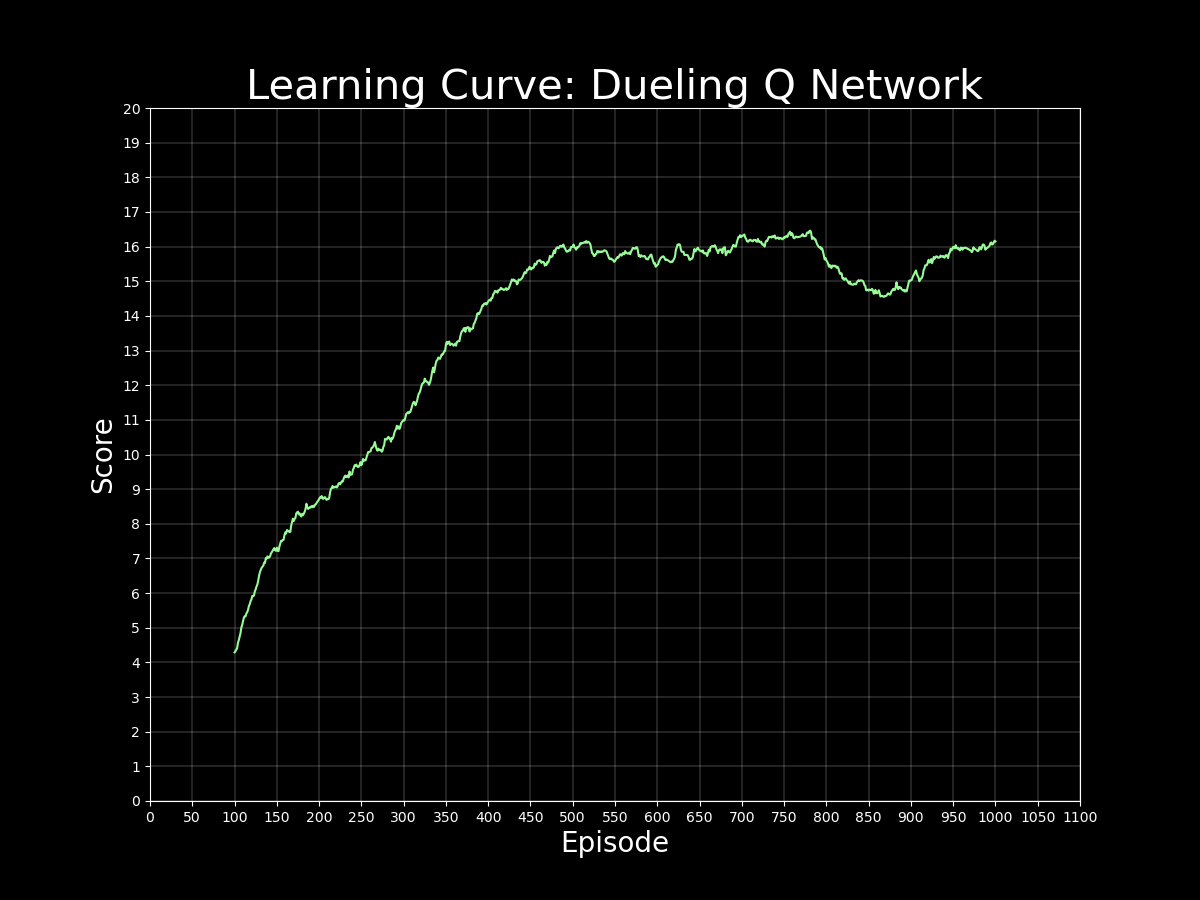
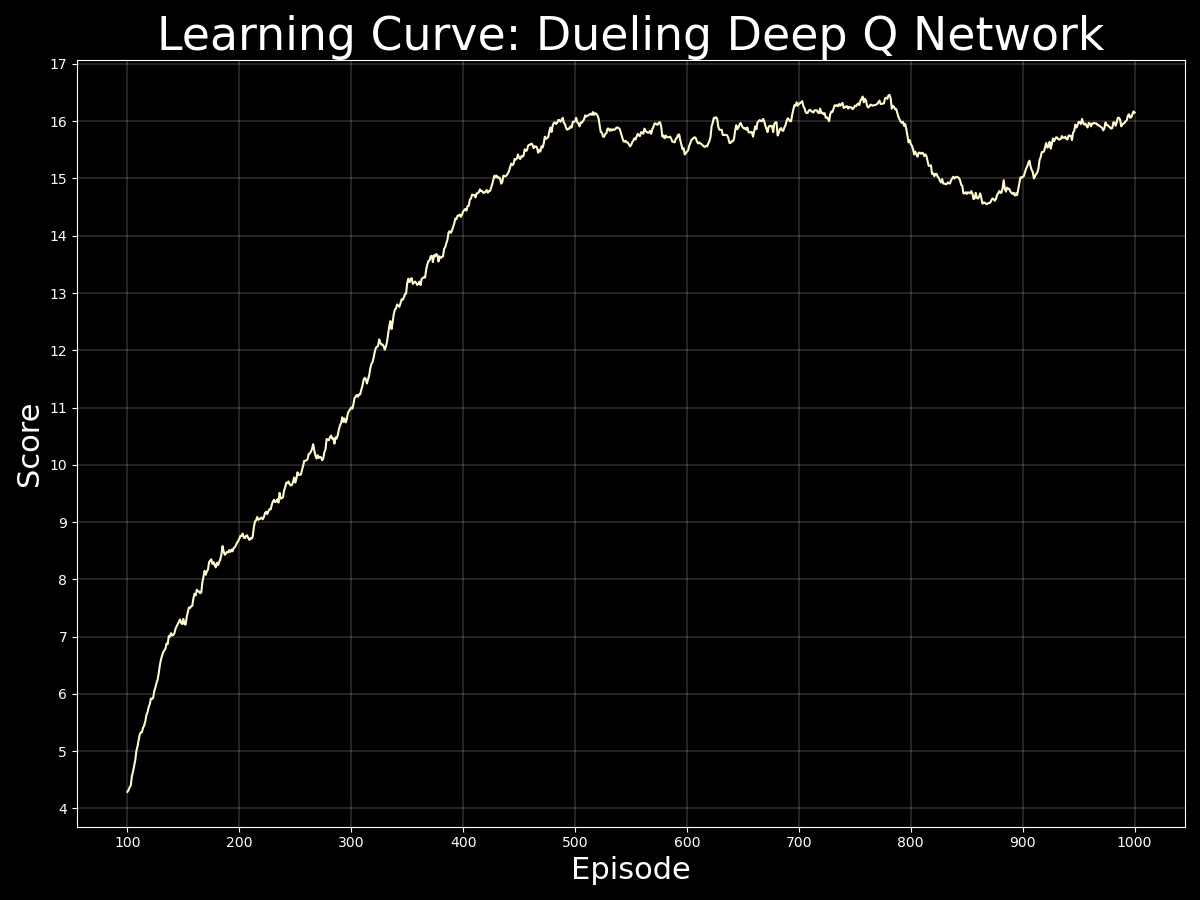
refactor: Update plot style and plots
Updated plot grid, color, dimensions and annotations.
Recreated plots in saved_files dir.

Changed region(s): [[0.0, 0.0, 0.9867, 0.9956]]

diff --git a/dqn/dqn_trainer.py b/dqn/dqn_trainer.py
@@ -146,8 +146,8 @@ class DQNTrainer:
         """Plots learning curve for successful network."""
 
         # Set model type strings for plot title and filename.
-        model_type, model = ('Dueling Q Network', 'dqn') if \
-            self.agent.hparams.duel else ('Q Network', 'qn')
+        model_type, model = ('Dueling Deep Q Network', 'dqn') if \
+            self.agent.hparams.duel else ('Deep Q Network', 'qn')
 
         # Calculate rolling averages based on the last 25 episodes.
         rolling_avgs = pd.DataFrame(self.scores).rolling(100).mean()
@@ -160,27 +160,28 @@ class DQNTrainer:
         y = rolling_avgs[0].iloc[-1]
 
         # Set x, y ticks for graph axes and color for line.
-        x_end = int(50 * math.ceil(x/50)) + 1
-        x_max = x_end if x_end - x >= 25 else x_end + 50
-        x_ticks = np.arange(50, x_max, 50)
-        y_ticks = np.arange(0, int(y)+3, 1)
-        line_color = 'lightpink' if model == 'qn' else 'palegreen'
+        x_end = int(25 * math.ceil(x/25)) + 1
+        x_max = x_end if x_end - x >= 25 else x_end + 25
+        x_ticks = np.arange(100, x_max, 25)
+        y_ticks = np.arange(4, int(y)+2, 1)
+        line_color = 'khaki' if model == 'qn' else 'lemonchiffon'
 
         # Plot rolling averages and save resulting plot
         fig, ax = plt.subplots(figsize=(12, 9))
-        ax.plot(rolling_avgs, color=line_color)
+        ax.plot(rolling_avgs, color=line_color, linewidth=1.5)
         ax.grid(color='w', linewidth=0.2)
         ax.set_xticks(x_ticks)
         ax.set_yticks(y_ticks)
-        ax.set_title(f'Learning Curve: {model_type}', fontsize=30)
-        ax.set_xlabel('Episode', fontsize=20)
-        ax.set_ylabel('Score', fontsize=20)
+        ax.set_title(f'Learning Curve: {model_type}', fontsize=33)
+        ax.set_xlabel('Episode', fontsize=22)
+        ax.set_ylabel('Score', fontsize=22)
         ax.annotate(
             f'Episode: {x}\nScore: {y}',
-            fontsize=10,
+            fontsize=12,
             xy=(x, y),
-            xytext=(x-15, y+0.15),
+            xytext=(x-12, y+0.15),
             horizontalalignment='left'
         )
+        plt.tight_layout()
         plt.savefig(rf'{self.save_dir}/scores_mavg_{model}_{x}')
         plt.show()

diff --git a/train_agent.py b/train_agent.py
@@ -172,10 +172,10 @@ if __name__ == '__main__':
     agent = create_agent(state_size, action_size, duel=False)
 
     # Create DQNTrainer object to train agent.
-    trainer = create_trainer(agent, env, 13)
+    trainer = create_trainer(agent, env, end_score=13)
 
     # Train agent in specified environment!
-    train_agent(trainer, 1000)
+    train_agent(trainer, n_episodes=1000)
 
     # Restore past successful agent.
     # agent = restore_agent(trainer, 'checkpoint_dueling_dqn.pth')
